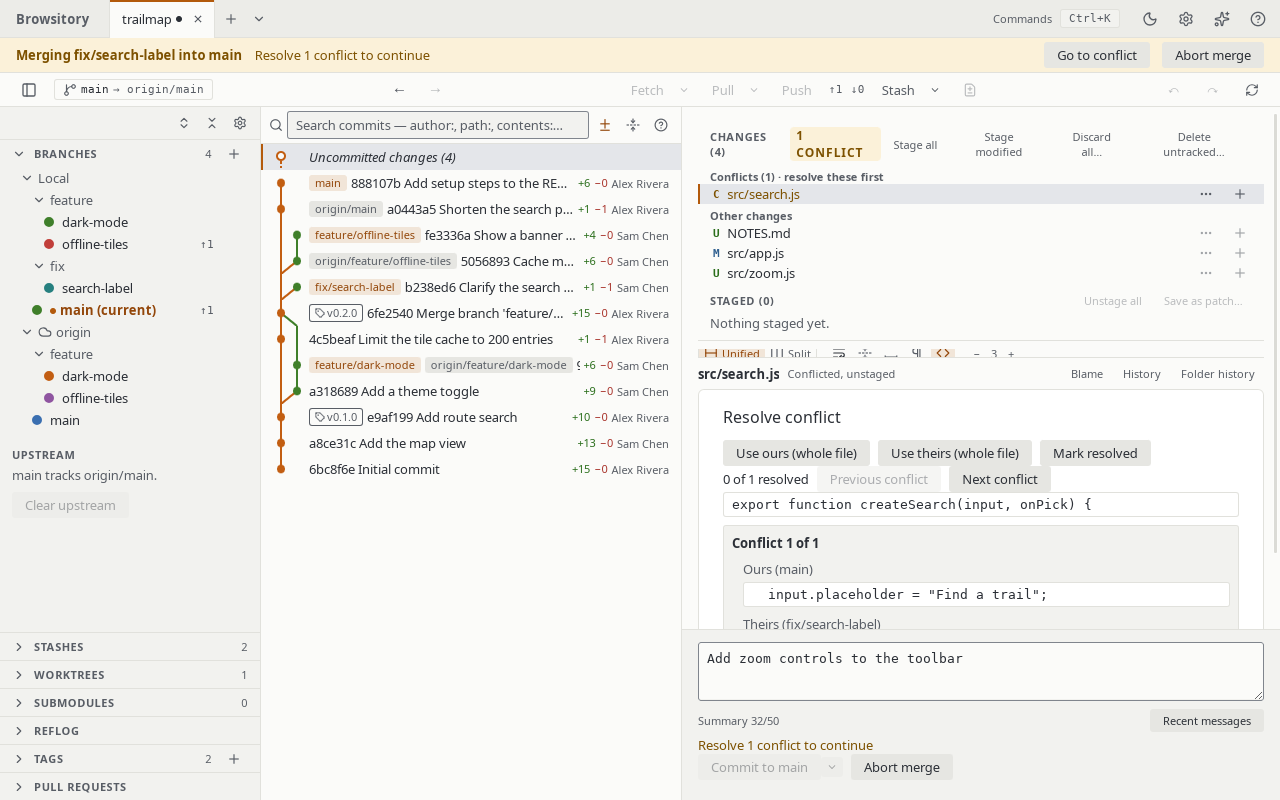
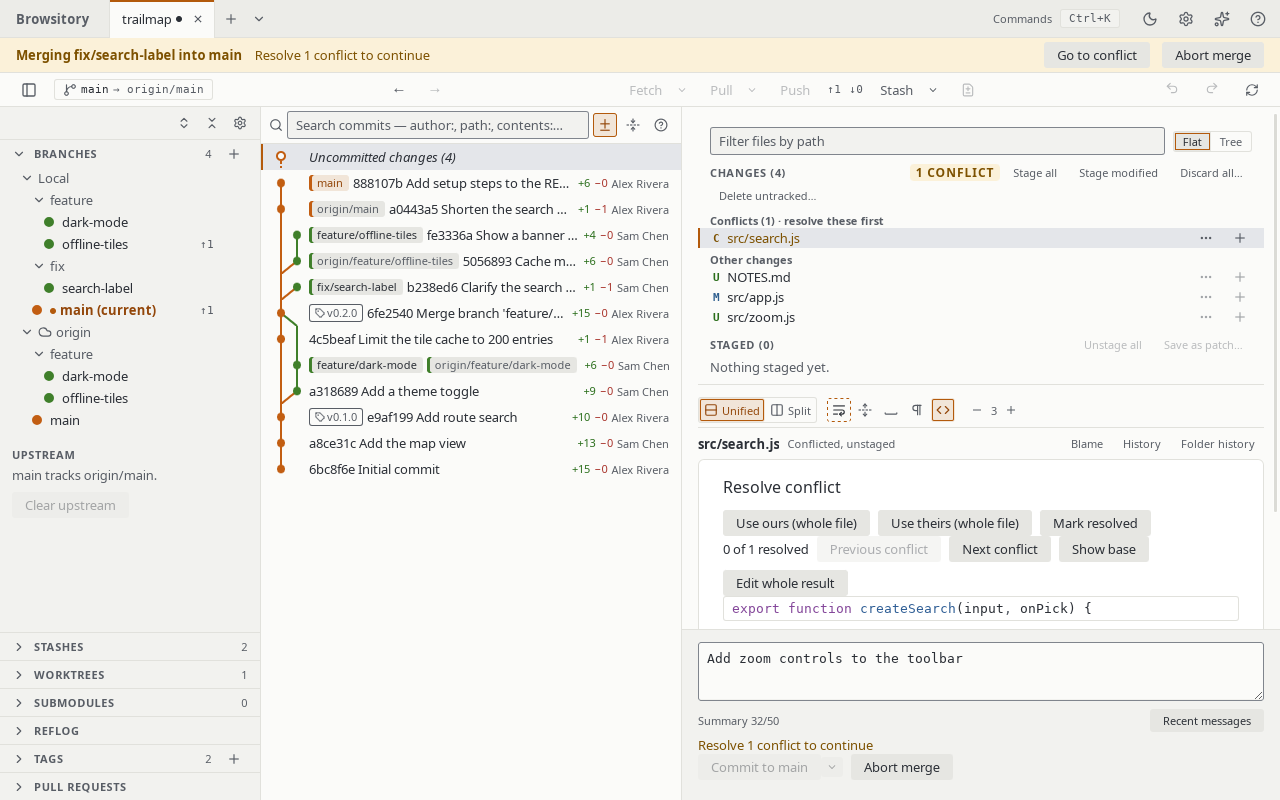
Screenshots for 0.11.0; Preferences and merge editor shots (#754)
All guide screenshots regenerated with e2e/screenshots/capture.sh and
checked by eye: the toolbar, the file list's path filter and Flat/Tree
switch, "Uncommitted changes", hunk headers ("Lines 1–8"), ISO dates,
branch dots in their graph colours, two-line stash rows, the Tags
section's select-and-push list, and the merge editor's controls.

Two new shots: preferences.png (the Appearance group, with Date format)
in "The main window", and merge-editor.png (a conflict block with ours,
theirs, the choices and the result, in a 1280x1000 window) in
"Resolving conflicts". The capture finds the Preferences group tab by
XPath, since `*=` text matching isn't valid after a CSS attribute path.

Claude-Session: https://claude.ai/code/session_01A4tHCJjnzi8pBrcnnZcgkk

diff --git a/e2e/screenshots/capture.docs.ts b/e2e/screenshots/capture.docs.ts
@@ -132,6 +132,18 @@ describe("Documentation screenshots", () => {
     await expandSidebarSection("Branches");
   });
 
+  it("preferences", async () => {
+    await click('button[aria-label="Preferences"]');
+    const filter = await $('input[aria-label="Filter settings"]');
+    await filter.waitForDisplayed();
+    // The Appearance group: theme, fonts, sizes and the date format.
+    await click('//div[@aria-label="Preference groups"]/button[normalize-space()="Appearance"]');
+    await $("legend=Appearance").waitForDisplayed();
+    await shoot("preferences");
+    await browser.keys(["Escape"]);
+    await filter.waitForDisplayed({ reverse: true });
+  });
+
   it("command-palette", async () => {
     await browser.keys(["Control", "k"]);
     const input = await $('input[aria-label="Command palette"]');
@@ -166,5 +178,15 @@ describe("Documentation screenshots", () => {
     await setTheme("dark");
     await shoot("dark-theme");
     await setTheme("light");
+  });
+
+  it("merge-editor", async () => {
+    // A taller window, so the merge editor shows a whole conflict block under the file list.
+    await browser.setWindowSize(WINDOW.width, 1000);
+    const block = await $('section[aria-label="Conflict 1 of 1"]');
+    await block.waitForExist();
+    await browser.execute((el) => (el as HTMLElement).scrollIntoView({ block: "start" }), block);
+    await shoot("merge-editor");
+    await browser.setWindowSize(WINDOW.width, WINDOW.height);
   });
 });

diff --git a/e2e/screenshots/README.md b/e2e/screenshots/README.md
@@ -38,8 +38,8 @@ Then look at every changed image before you commit it.
   webview data already live in temp folders in the E2E harness. Nothing reads or writes your
   own settings, keys or Browsitory data.
 - `capture.docs.ts` opens the demo from the repository picker, sets a 1280×800 window and the
-  light theme, and saves each screen to `docs/guide/assets/<name>.png`. The last shot uses the dark
-  theme.
+  light theme, and saves each screen to `docs/guide/assets/<name>.png`. The `dark-theme` shot uses
+  the dark theme, and `merge-editor` a taller window.
 
 ## Shots
 
@@ -51,9 +51,11 @@ Then look at every changed image before you commit it.
 | `branches.png` | The Branches section with the `origin` folder open |
 | `stashes.png` | The Stashes section |
 | `tags.png` | The Tags section |
+| `preferences.png` | Preferences, open on the Appearance group |
 | `command-palette.png` | The command palette, filtered to "branch" |
 | `conflict.png` | A merge stopped on a conflict, with the resolve controls |
 | `dark-theme.png` | The same conflict in the dark theme |
+| `merge-editor.png` | The merge editor on that conflict, in a 1280×1000 window |
 
 To add a shot, add a test to `capture.docs.ts` that ends with `shoot("<name>")`, run the
 script, and add the file to this table.

diff --git a/docs/guide/conflicts.md b/docs/guide/conflicts.md
@@ -29,6 +29,9 @@ A conflicted file opens the **Resolve conflict** pane:
   blocks. Our lines, their lines, the base and the unchanged lines are syntax highlighted like
   the diff, following the diff's **Syntax highlighting** option; the result fields stay plain
   text.
+
+  ![The merge editor: one conflict block with our and their lines, the choices and the result](assets/merge-editor.png)
+
 - From the keyboard: with a block focused, **1** to **5** take **Accept ours**, **Accept
   theirs**, **Ours then theirs**, **Theirs then ours** and **Accept base**. **F7** and
   **Shift+F7** (⇧F7 on macOS) go to the next and previous conflict from anywhere in the merge

diff --git a/docs/guide/main-window.md b/docs/guide/main-window.md
@@ -122,6 +122,8 @@ contains the text, for example "font"; Escape clears the filter. Preferences ope
 you looked at last, and the **Diff preferences** button next to an untracked file's **Show
 contents** opens it on **Diff**.
 
+![Preferences, open on the Appearance group](assets/preferences.png)
+
 **Appearance.** The Appearance group of Preferences changes how the window and its text look.
 Each change shows at once, without a restart:
 
